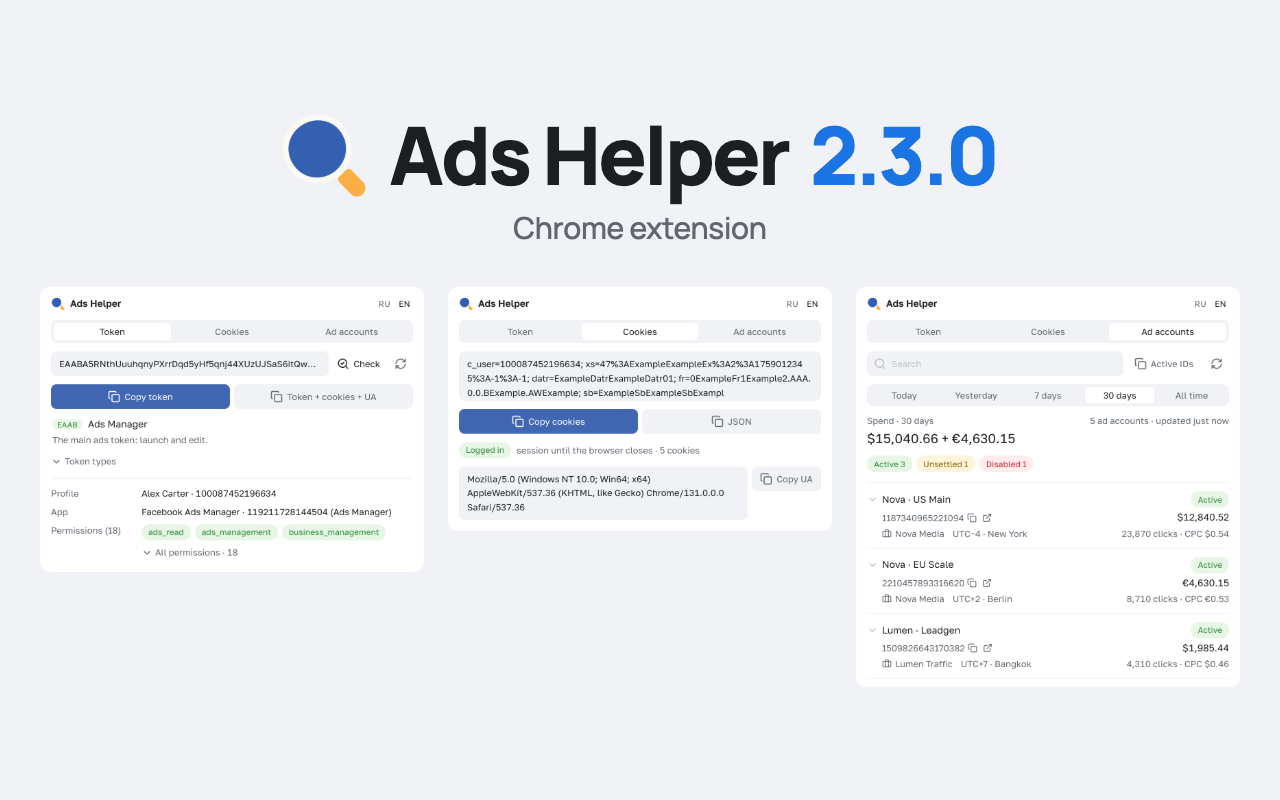
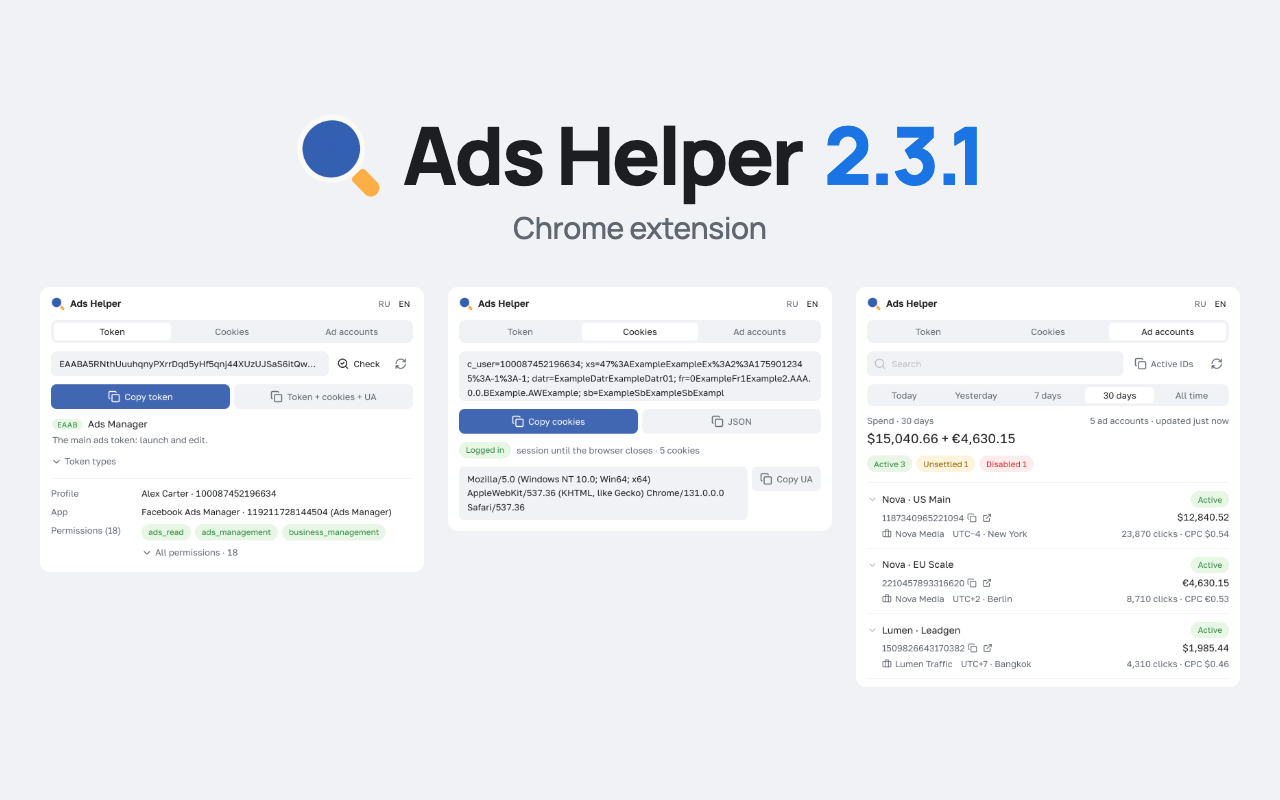
2.3.1: faster "Token + cookies + UA", token types reordered
- UA is read alongside the token instead of after it; the /me owner check is kept in storage.session, so reopening the popup doesn't repeat it
- The button greys out (progress cursor) the moment it is clicked
- Token types: Ads Manager, Business Manager, Events Manager, Commerce Manager, Automated Rules

Changed region(s): [[0.2188, 0.1562, 0.7812, 0.25]]

diff --git a/fb-helper/js/i18n.js b/fb-helper/js/i18n.js
@@ -15,10 +15,10 @@ const D = {
     "copyToken": "Скопировать токен", "copyEnv": "Токен + cookie + UA",
     "guide.title": "Типы токенов", "guide.open": "Открыть — токен этого типа будет на той вкладке",
     "guide.EAAB": "— основной для рекламы: запуск и правка.",
-    "guide.EAAI": "— настройка автоправил.",
     "guide.EAAG": "— бизнес-активы: страницы, Instagram, лиды, WhatsApp, каталоги и реклама.",
-    "guide.EAAH": "— каталоги: товары и расширенное управление.",
     "guide.EAAd": "— события: пиксели, датасеты и отслеживание.",
+    "guide.EAAH": "— каталоги: товары и расширенное управление.",
+    "guide.EAAI": "— настройка автоправил.",
     "copyCookies": "Скопировать cookie", "copyCookies.title": "Строка cookie: c_user=…; xs=…; …",
     "copyJson.title": "Те же cookie с атрибутами (domain, path, срок) — для импорта в антидетект",
     "ua.copy": "Скопировать UA", "ua.title": "User-Agent этого профиля, как его видит страница Facebook", "ua.copied": "User-Agent скопирован",
@@ -28,8 +28,8 @@ const D = {
 
     "kind.EAAB": "Основной для рекламы: запуск и правка.",
     "kind.EAAG": "Бизнес-активы: страницы, Instagram, лиды, WhatsApp, каталоги и реклама.",
-    "kind.EAAH": "Каталоги: товары и расширенное управление.",
     "kind.EAAd": "События: пиксели, датасеты и отслеживание.",
+    "kind.EAAH": "Каталоги: товары и расширенное управление.",
     "kind.EAAI": "Настройка автоправил.",
     "kind.unknown.app": "Другое приложение Meta", "kind.unknown.use": "Нажми «Проверить» — покажу приложение и права.",
     "kind.notAds": "Сейчас это не рекламный токен. ", "kind.goAds": "Перейти в Ads Manager", "kind.from": "Взят со вкладки: {s}",
@@ -110,10 +110,10 @@ const D = {
     "copyToken": "Copy token", "copyEnv": "Token + cookies + UA",
     "guide.title": "Token types", "guide.open": "Open — that tab will hold a token of this type",
     "guide.EAAB": "— the main ads token: launch and edit.",
-    "guide.EAAI": "— automated rules.",
     "guide.EAAG": "— business assets: pages, Instagram, leads, WhatsApp, catalogs and ads.",
-    "guide.EAAH": "— catalogs: products and advanced management.",
     "guide.EAAd": "— events: pixels, datasets and tracking.",
+    "guide.EAAH": "— catalogs: products and advanced management.",
+    "guide.EAAI": "— automated rules.",
     "copyCookies": "Copy cookies", "copyCookies.title": "Cookie string: c_user=…; xs=…; …",
     "copyJson.title": "Same cookies with attributes (domain, path, expiry) — for import into an antidetect browser",
     "ua.copy": "Copy UA", "ua.title": "This profile's User-Agent, as the Facebook page sees it", "ua.copied": "User-Agent copied",
@@ -123,8 +123,8 @@ const D = {
 
     "kind.EAAB": "The main ads token: launch and edit.",
     "kind.EAAG": "Business assets: pages, Instagram, leads, WhatsApp, catalogs and ads.",
-    "kind.EAAH": "Catalogs: products and advanced management.",
     "kind.EAAd": "Events: pixels, datasets and tracking.",
+    "kind.EAAH": "Catalogs: products and advanced management.",
     "kind.EAAI": "Automated rules.",
     "kind.unknown.app": "Another Meta app", "kind.unknown.use": "Press “Check” to see the app and its permissions.",
     "kind.notAds": "This is not an ads token. ", "kind.goAds": "Open Ads Manager", "kind.from": "Taken from tab: {s}",

diff --git a/fb-helper/js/popup.js b/fb-helper/js/popup.js
@@ -40,8 +40,8 @@ const TOKEN_RE = /^EAA[A-Za-z0-9]{62,}$/;
 const TOKEN_KIND = {
   EAAB: { app: "Ads Manager", tone: "ok", ads: true },
   EAAG: { app: "Business Manager", tone: "info", ads: true },
-  EAAH: { app: "Commerce Manager", tone: "info", ads: false },
   EAAd: { app: "Events Manager", tone: "info", ads: false },
+  EAAH: { app: "Commerce Manager", tone: "info", ads: false },
   EAAI: { app: "Automated Rules", tone: "info", ads: true },
 };
 // Every grabbed value already matched the token regex, so it IS a token — just from an app we didn't
@@ -196,10 +196,11 @@ function isFacebookUrl(url) {
 // ---------- storage ----------
 async function loadState() {
   // storage.session is wiped on extension update/reload, so a cache is always from this API_VERSION.
-  const ses = await chrome.storage.session.get(["token", "tokenSource", "dead", ...CACHE_KEYS, "cooldownUntil", "usage", "locks"]);
+  const ses = await chrome.storage.session.get(["token", "tokenSource", "dead", "checked", ...CACHE_KEYS, "cooldownUntil", "usage", "locks"]);
   try { const { apiVersion } = await chrome.storage.local.get("apiVersion"); adoptVersion(apiVersion, false); } catch { /* */ }
   Object.assign(state, {
     token: ses.token || null, tokenSource: ses.tokenSource || null, dead: Array.isArray(ses.dead) ? ses.dead : [],
+    checked: ses.checked?.token ? ses.checked : null,
     accounts: ses.accounts || [], fetchedAt: ses.fetchedAt || 0, truncated: !!ses.truncated, owner: ses.owner || null,
     ads: ses.ads || {}, open: new Set(ses.view?.open), adsHidden: new Set(ses.view?.hidden),
     cooldownUntil: ses.cooldownUntil || 0, usage: ses.usage ?? null,
@@ -668,16 +669,26 @@ async function ownerCheck(token) {
     if (e instanceof Stale || e.session) throw e;
   }
   const res = { token, user, verdict, meId };
-  if (verdict !== "unknown") state.checked = res;
+  // Kept in storage.session, so reopening the popup doesn't cost another /me before the next export.
+  if (verdict !== "unknown") { state.checked = res; saveSession({ checked: res }); }
   return res;
 }
+// The button greys out at once: the reads below take a moment (FB tabs, then /me the first time per token).
 async function copyEnv() {
+  const btn = $("#copyEnv");
+  if (btn.disabled) return;
+  btn.disabled = true; btn.setAttribute("aria-busy", "true");
+  try { await copyEnvNow(); } finally { btn.disabled = false; btn.removeAttribute("aria-busy"); }
+}
+async function copyEnvNow() {
   // Always a fresh token + a cookie snapshot taken right after it; nothing from the old cache.
+  // The UA is read from the FB tabs alongside the token, not after it.
+  const uaRead = readUa().catch(() => null);
   const token = await grabToken({ toClipboard: false });
   if (!token) return;
   const gen = state.gen;
   // The block is what you hand to whoever connects with this token: without the UA it would be an incomplete set.
-  const ua = await readUa();
+  const ua = await uaRead;
   if (gen !== state.gen || state.token !== token) return;
   if (!ua) return toast(state.uaHint || t("grab.noAccess"), true);
   await readCookies();
@@ -1165,6 +1176,7 @@ async function refreshToken() {
   const was = state.token, wasDead = isDead();
   clearDead(was);
   state.checked = null;                                 // the owner is verified again on the next export
+  chrome.storage.session.remove("checked");
   try {
     const got = await grabToken({ toClipboard: false });   // no token: grabToken toasts why
     if (got) toast(wasDead && got === was ? t("token.retry") : t("token.refreshed"));

diff --git a/fb-helper/popup.html b/fb-helper/popup.html
@@ -43,10 +43,10 @@
           <summary><i class="i i-chevron"></i><span data-i18n="guide.title">Token types</span></summary>
           <div class="guide-body">
             <div class="guide-row"><span class="guide-code">EAAB</span><span><a href="https://adsmanager.facebook.com/adsmanager/manage/campaigns" target="_blank" rel="noopener noreferrer" title="Open — that tab will hold a token of this type" data-i18n-title="guide.open">Ads Manager<i class="i i-external"></i></a> <span data-i18n="guide.EAAB">— the main ads token: launch and edit.</span></span></div>
-            <div class="guide-row"><span class="guide-code">EAAI</span><span><a href="https://adsmanager.facebook.com/ads/manager/rules/management/" target="_blank" rel="noopener noreferrer" title="Open — that tab will hold a token of this type" data-i18n-title="guide.open">Automated Rules<i class="i i-external"></i></a> <span data-i18n="guide.EAAI">— automated rules.</span></span></div>
             <div class="guide-row"><span class="guide-code">EAAG</span><span><a href="https://business.facebook.com/settings/" target="_blank" rel="noopener noreferrer" title="Open — that tab will hold a token of this type" data-i18n-title="guide.open">Business Manager<i class="i i-external"></i></a> <span data-i18n="guide.EAAG">— business assets: pages, Instagram, leads, WhatsApp, catalogs and ads.</span></span></div>
-            <div class="guide-row"><span class="guide-code">EAAH</span><span><a href="https://business.facebook.com/commerce/" target="_blank" rel="noopener noreferrer" title="Open — that tab will hold a token of this type" data-i18n-title="guide.open">Commerce Manager<i class="i i-external"></i></a> <span data-i18n="guide.EAAH">— catalogs: products and advanced management.</span></span></div>
             <div class="guide-row"><span class="guide-code">EAAd</span><span><a href="https://business.facebook.com/events_manager2/overview" target="_blank" rel="noopener noreferrer" title="Open — that tab will hold a token of this type" data-i18n-title="guide.open">Events Manager<i class="i i-external"></i></a> <span data-i18n="guide.EAAd">— events: pixels, datasets and tracking.</span></span></div>
+            <div class="guide-row"><span class="guide-code">EAAH</span><span><a href="https://business.facebook.com/commerce/" target="_blank" rel="noopener noreferrer" title="Open — that tab will hold a token of this type" data-i18n-title="guide.open">Commerce Manager<i class="i i-external"></i></a> <span data-i18n="guide.EAAH">— catalogs: products and advanced management.</span></span></div>
+            <div class="guide-row"><span class="guide-code">EAAI</span><span><a href="https://adsmanager.facebook.com/ads/manager/rules/management/" target="_blank" rel="noopener noreferrer" title="Open — that tab will hold a token of this type" data-i18n-title="guide.open">Automated Rules<i class="i i-external"></i></a> <span data-i18n="guide.EAAI">— automated rules.</span></span></div>
           </div>
         </details>
         <dl id="tokenInfo" class="kv hidden"></dl>

diff --git a/fb-helper/css/popup.css b/fb-helper/css/popup.css
@@ -126,6 +126,7 @@ main { padding-bottom: 0; }
 .btn:hover:not(:disabled), .btn:focus-visible { background: var(--color-hover-fill); }
 .btn:not(.primary):hover:not(:disabled), .btn:not(.primary):focus-visible { color: var(--color-text-primary); }
 .btn:disabled { color: var(--color-text-disabled); cursor: default; }
+.btn[aria-busy="true"] { cursor: progress; }
 .btn.primary { background: var(--color-accent); color: var(--color-on-accent); }
 .btn.primary:hover:not(:disabled), .btn.primary:focus-visible { background: var(--color-accent-hover); }
 .btn.primary:disabled { background: var(--color-background-muted); color: var(--color-text-disabled); }

diff --git a/chrome-web-store/art/cover-1280x800.html b/chrome-web-store/art/cover-1280x800.html
@@ -19,7 +19,7 @@
   .card img { display: block; width: 100%; }
 </style>
 <div class="head">
-  <h1><img src="../icons/logo.webp" alt="">Ads Helper <span class="v">2.3.0</span></h1>
+  <h1><img src="../icons/logo.webp" alt="">Ads Helper <span class="v">2.3.1</span></h1>
   <h2>Chrome extension</h2>
 </div>
 <div class="row">

diff --git a/chrome-web-store/art/cover.html b/chrome-web-store/art/cover.html
@@ -19,7 +19,7 @@
   .card img { display: block; width: 100%; }
 </style>
 <div class="head">
-  <h1><img src="../icons/logo.webp" alt="">Ads Helper <span class="v">2.3.0</span></h1>
+  <h1><img src="../icons/logo.webp" alt="">Ads Helper <span class="v">2.3.1</span></h1>
   <h2>Chrome extension</h2>
 </div>
 <div class="row">

diff --git a/chrome-web-store/art/social.html b/chrome-web-store/art/social.html
@@ -19,7 +19,7 @@
   .card img { display: block; width: 100%; }
 </style>
 <div class="head">
-  <h1><img src="../icons/logo.webp" alt="">Ads Helper <span class="v">2.3.0</span></h1>
+  <h1><img src="../icons/logo.webp" alt="">Ads Helper <span class="v">2.3.1</span></h1>
   <h2>Chrome extension</h2>
 </div>
 <div class="row">

diff --git a/chrome-web-store/RELEASE_CHECKLIST.md b/chrome-web-store/RELEASE_CHECKLIST.md
@@ -3,11 +3,11 @@
 The repo and GitHub stay **FB Helper** (`fb-helper/`). Only the store build is **Ads Helper** with the neutral logo (`chrome-web-store/icons/logo-source.png`, `chrome-web-store/icons/`).
 
 ## 1. Build
-- [ ] `chrome-web-store/build.sh` → `chrome-web-store/release/unpacked/` (exact ZIP contents) and `chrome-web-store/release/ads-helper-2.3.0.zip`
+- [ ] `chrome-web-store/build.sh` → `chrome-web-store/release/unpacked/` (exact ZIP contents) and `chrome-web-store/release/ads-helper-2.3.1.zip`
 - [ ] `node --test test/*.test.mjs` passes
 - [ ] `EXT_DIR=chrome-web-store/release/unpacked node test/e2e.mjs` passes (runs the store build, not the repo)
-- [ ] `manifest.json` is at the ZIP root (`unzip -l chrome-web-store/release/ads-helper-2.3.0.zip | grep -x '.*manifest.json'`), no comments in it
-- [ ] Version is higher than any previously uploaded version (2.1.0 and 2.2.0 are already in the store; every upload needs a bump — this one is 2.3.0)
+- [ ] `manifest.json` is at the ZIP root (`unzip -l chrome-web-store/release/ads-helper-2.3.1.zip | grep -x '.*manifest.json'`), no comments in it
+- [ ] Version is higher than any previously uploaded version (2.1.0 and 2.2.0 are already in the store; every upload needs a bump — this one is 2.3.1)
 - [ ] No `FB Helper`, no Facebook "f" logo in the package (the build script fails if the old name is left; icons come from `chrome-web-store/icons/`)
 
 ## 2. Manual test of the unpacked store build
@@ -36,7 +36,7 @@ The repo and GitHub stay **FB Helper** (`fb-helper/`). Only the store build is *
 - [ ] Trader / non-trader status declared honestly (Dashboard → Account)
 
 ## 5. Dashboard (copy from `STORE_LISTING.md`)
-- [ ] Package: upload `chrome-web-store/release/ads-helper-2.3.0.zip`
+- [ ] Package: upload `chrome-web-store/release/ads-helper-2.3.1.zip`
 - [ ] Store listing: description, category, language, store icon `chrome-web-store/icons/icon_128.png`, screenshots, small promo tile
 - [ ] Privacy: single purpose, justification for `cookies`, `storage`, `scripting`, host permission, remote code = **No**, data usage boxes (Authentication information, PII, Financial and payment information), three certifications, privacy policy URL
 - [ ] Distribution: visibility and regions
@@ -54,7 +54,7 @@ The repo and GitHub stay **FB Helper** (`fb-helper/`). Only the store build is *
 |---|---|---|---|
 | Store icon | 128×128 PNG | yes | **Done:** `chrome-web-store/icons/icon_128.png` — 96×96 artwork inside 16 px transparent padding per side |
 | Extension icons in the package | 16, 32, 48, 128 PNG | yes | **Done** (built into the ZIP from `chrome-web-store/icons/`) |
-| Screenshots | 1280×800, JPEG or 24-bit PNG without alpha (as the Dashboard form states), 1 to 5 | at least 1 | **Done (2.3.0 UI):** English listing `chrome-web-store/art/out/screenshots/en/01-accounts … 04-cookies.png`, Russian listing `…/screenshots/ru/…`, plus the overview `chrome-web-store/art/out/store-screenshot-1280x800.png` as an optional 5th (`cover.png` is 2100×1182 and is rejected by the form) |
+| Screenshots | 1280×800, JPEG or 24-bit PNG without alpha (as the Dashboard form states), 1 to 5 | at least 1 | **Done (2.3.1 UI):** English listing `chrome-web-store/art/out/screenshots/en/01-accounts … 04-cookies.png`, Russian listing `…/screenshots/ru/…`, plus the overview `chrome-web-store/art/out/store-screenshot-1280x800.png` as an optional 5th (`cover.png` is 2100×1182 and is rejected by the form) |
 | Small promo tile | 440×280, JPEG or 24-bit PNG without alpha | yes | **Done:** `chrome-web-store/art/out/promo-tile-440x280.png` |
 | Marquee promo tile | 1400×560 | optional | Not made; needed only to be featured |
 | Global promo video | YouTube URL | optional in the Dashboard form | Skip |

diff --git a/README.md b/README.md
@@ -1,4 +1,4 @@
-# FB Helper 2.3.0
+# FB Helper 2.3.1
 
 [![CI](https://github.com/slilbudget/fb-helper/actions/workflows/ci.yml/badge.svg)](https://github.com/slilbudget/fb-helper/actions/workflows/ci.yml) [![Release](https://img.shields.io/github/v/release/slilbudget/fb-helper)](https://github.com/slilbudget/fb-helper/releases/latest) [![License: MIT](https://img.shields.io/github/license/slilbudget/fb-helper)](LICENSE)
 
@@ -8,7 +8,7 @@ Chrome extension (MV3): Facebook access token, session cookies and ad account st
 
 ## Install
 
-1. Download `fb-helper-2.3.0.zip` from [Releases](https://github.com/slilbudget/fb-helper/releases/latest) and unpack (or `git clone` and use the `fb-helper/` folder)
+1. Download `fb-helper-2.3.1.zip` from [Releases](https://github.com/slilbudget/fb-helper/releases/latest) and unpack (or `git clone` and use the `fb-helper/` folder)
 2. `chrome://extensions` → enable **Developer mode**
 3. **Load unpacked** → pick the unpacked folder (from a clone: `fb-helper/`; keep the folder after installing)
 
@@ -39,7 +39,7 @@ Chrome 121+. A Facebook tab must be open in the same profile; the ads token (EAA
 ## Build the archive
 
 ```
-(cd fb-helper && zip -qrD ../fb-helper-2.3.0.zip . -x '*.DS_Store') && zip -qj fb-helper-2.3.0.zip LICENSE
+(cd fb-helper && zip -qrD ../fb-helper-2.3.1.zip . -x '*.DS_Store') && zip -qj fb-helper-2.3.1.zip LICENSE
 ```
 
 The Chrome Web Store package (`chrome-web-store/release/ads-helper-<version>.zip`) comes from `chrome-web-store/build.sh`.

diff --git a/chrome-web-store/STORE_LISTING.md b/chrome-web-store/STORE_LISTING.md
@@ -1,4 +1,4 @@
-# Chrome Web Store listing — Ads Helper 2.3.0
+# Chrome Web Store listing — Ads Helper 2.3.1
 
 Copy each block into the Developer Dashboard. Every statement below matches the code of this version.
 
